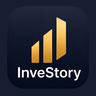
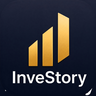
v0.0.95: правильная сборка иконки и слой экрана входа
Иконка. Прошлая попытка залила прозрачные поля исходника одним цветом,
взятым из центра рисунка. Но у рисунка есть виньетка: край сверху
(35,40,60) заметно светлее центра (27,32,52), а снизу наоборот темнее
(4,13,30) — заливка одним тоном не совпала ни с одним краем, и вместо
чёрной рамки появилась сине-синяя.

Теперь заливки нет вообще: картинка обрезается точно по форме
(альфа-bbox 150,128–1898,1897), а скруглённые углы дозаполняются
увеличенной на 22% копией самой себя — цвет подхватывается локальный,
виньетка сохраняется. Минимальное перекрытие для радиуса скругления
подобрано перебором (1.16), взят запас. Максимальный скачок цвета через
границу заливки — 9 из 255, глазом не видно.

Экран входа. Лежал внутри div.app, у которого position:relative и
z-index:1 — это создаёт слой, внутри которого z-index:900 конкурировал
только с соседями по .app. Триальный экран (z-index:600) — прямой
потомок body, то есть уровнем выше, и перекрывал кнопку входа.
Перенесён в body рядом с триальным экраном; проверено, что при этом он
остаётся до <script>, иначе initGoogleAuth не находил бы его в DOM.

Changed region(s): [[0.125, 0.125, 0.9062, 0.9375], [0.875, 0.9062, 0.9688, 1.0], [0.0312, 0.9375, 0.0625, 0.9688]]

diff --git a/index.html b/index.html
@@ -2350,14 +2350,6 @@ body.modern-mockup.theme-light .total-currency{
 
 
 <!-- PAYWALL -->
-<div class="auth-gate" id="authGate">
-  <img class="auth-gate-logo" src="icons/icon-384.png" alt="">
-  <div class="auth-gate-title">InveStory</div>
-  <div class="auth-gate-desc" id="authGateDesc">Увійдіть, щоб користуватися застосунком</div>
-  <div id="googleBtnSlot"></div>
-  <div class="auth-gate-note" id="authGateNote">Ми отримуємо лише ім'я, пошту та ідентифікатор облікового запису. Дані портфеля залишаються на пристрої.</div>
-</div>
-
 <div class="paywall-overlay" id="paywallOverlay" onclick="closePaywallIfOutside(event)">
   <div class="paywall-box">
     <div class="paywall-crown">👑</div>
@@ -2847,6 +2839,18 @@ body.modern-mockup.theme-light .total-currency{
   </div>
 </div>
 
+<!-- Экран входа лежит прямо в body, а не внутри .app: у того стоит
+     position:relative и z-index:1, из-за чего всё внутри попадает в один слой,
+     и z-index:900 конкурировал только с соседями по .app. Триальный экран
+     (z-index:600) сидит уровнем выше и перекрывал кнопку входа. -->
+<div class="auth-gate" id="authGate">
+  <img class="auth-gate-logo" src="icons/icon-384.png" alt="">
+  <div class="auth-gate-title">InveStory</div>
+  <div class="auth-gate-desc" id="authGateDesc">Увійдіть, щоб користуватися застосунком</div>
+  <div id="googleBtnSlot"></div>
+  <div class="auth-gate-note" id="authGateNote">Ми отримуємо лише ім'я, пошту та ідентифікатор облікового запису. Дані портфеля залишаються на пристрої.</div>
+</div>
+
 <!-- TRIAL OVERLAY -->
 <div class="trial-overlay" id="trialOverlay" style="display:none;">
   <div class="trial-box">
@@ -2892,7 +2896,7 @@ body.modern-mockup.theme-light .total-currency{
 
 
 // ── SUBSCRIPTION ACCESS STATE ─────────────────────────────
-const APP_VERSION = 'v0.0.94';
+const APP_VERSION = 'v0.0.95';
 const APP_BUILD_DATE = '2026-07-01';
 const STORAGE_SCHEMA_VERSION = 7;
 const STORAGE_KEY = 'kapital_v6';

diff --git a/sw.js b/sw.js
@@ -1,4 +1,4 @@
-const CACHE_NAME = 'investory-app-v0-0-94-fix-icon-bg';
+const CACHE_NAME = 'investory-app-v0-0-95-icon-and-gate-layer';
 const APP_SHELL = [
   './',
   './index.html',
